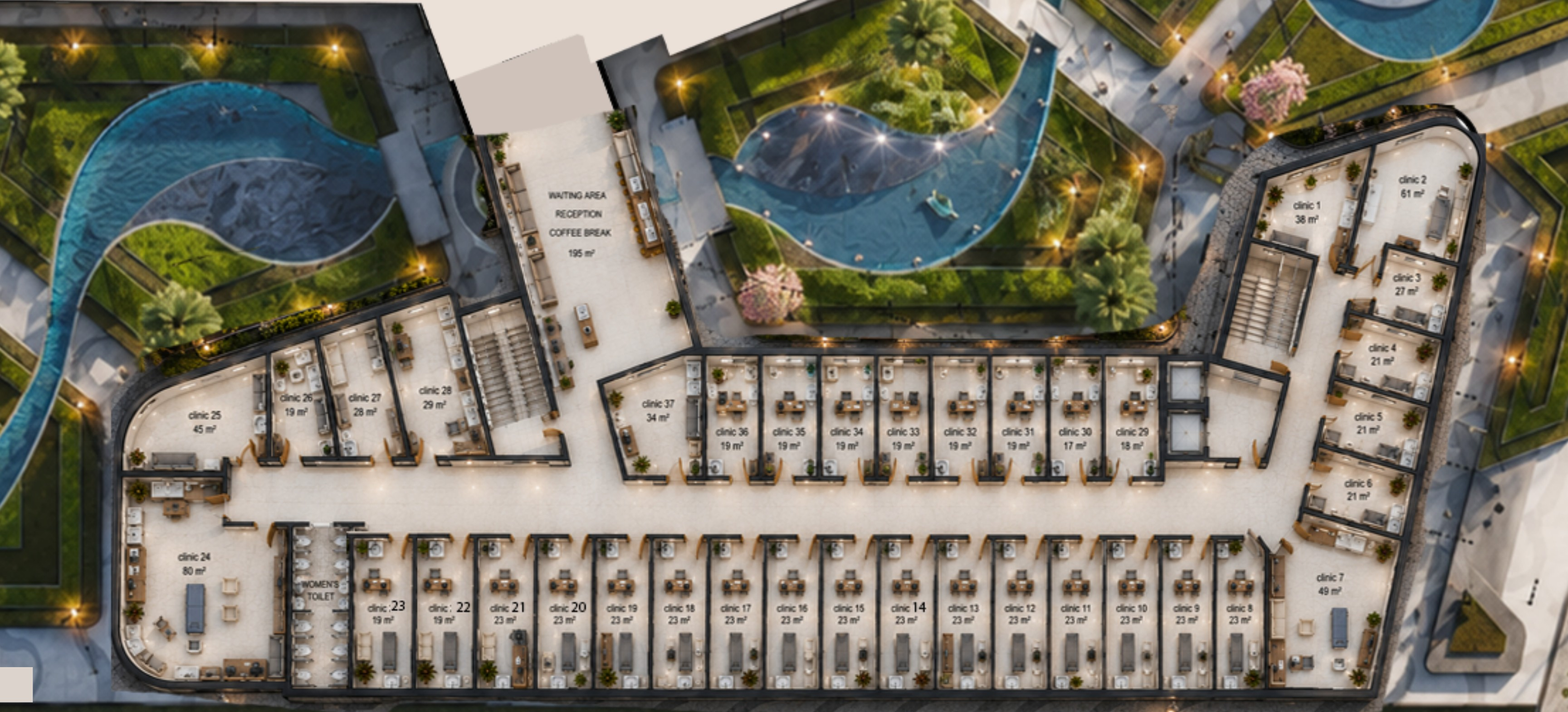
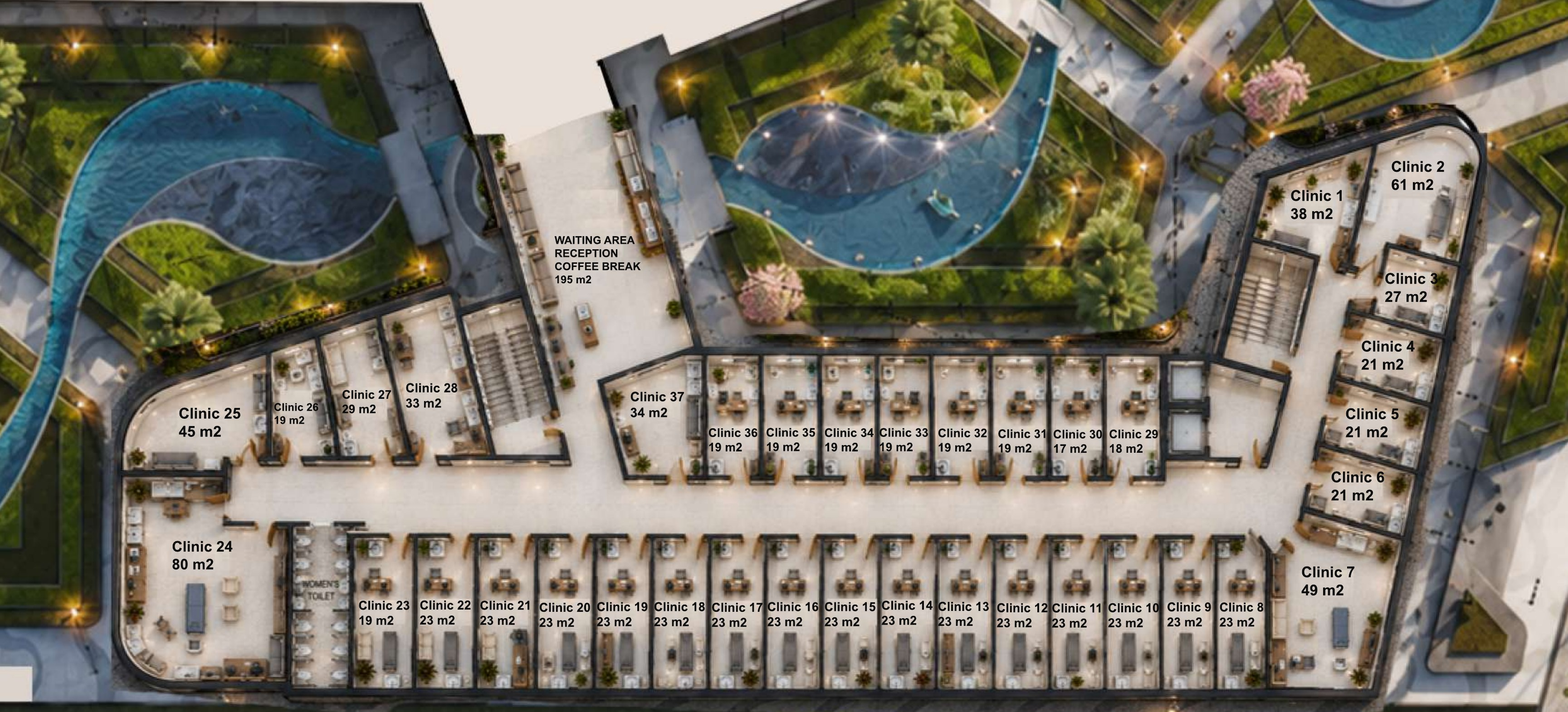
9MC: revised master plan from the client, and the corrected sheet
The client sent a revised 9MC master plan (2026-10-01). Same render as before,
shifted 2px at 300dpi, so the crop box moved and every traced outline still
fits. Three labels changed: clinic 22 19 -> 23 m2 (the known drawing error,
now fixed), 27 28 -> 29, 28 29 -> 33. Operations corrected MC927 / MC928 in
the sheet the same day, so the drawing-vs-sheet cross-check is clean.

- New app and print crops of the plan
- MC9_AREAS re-read off the new drawing; 22 leaves areaMismatches
- Offline snapshot refreshed against the live sheets
- test.js prices a fixed 80 m2 unit instead of MC924 from the snapshot,
  which crashed the suite once MC924 sold
- sw.js CACHE -> v11: artwork is cache-first, so returning phones would
  otherwise keep the old drawing

diff --git a/js/data.js b/js/data.js
@@ -1,21 +1,21 @@
 /* Offline fallback snapshots of the inventory sheets, keyed by project id.
  *
  * GENERATED — do not edit by hand. Run `node scripts/snapshot.js` to refresh.
- * Written: 2026-09-05T16:09:22.916Z
+ * Written: 2026-10-01T15:55:46.333Z
  *
  * The app uses the LIVE sheet whenever it can reach it. These are only shown
  * when the fetch fails, and the UI marks them as out of date when that happens.
  */
 const SNAPSHOTS = {
   "emc": {
-    takenAt: "2026-09-05T16:09:22.555Z",
-    rows: 14,
-    csv: "\"PROJECT\",\"Type\",\"Floor\",\"Unit Code\",\"Indoor area\",\"Indoor meter price\",\"Total unit price\",\"Status\"\n\"EMC\",\"CLINIC\",\"Third\",\"C313\",\"27\",\"125,000.00\",\"3,375,000.00\",\"Available \"\n\"EMC\",\"CLINIC\",\"Third\",\"C314\",\"26\",\"125,000.00\",\"3,250,000.00\",\"Available\"\n\"EMC\",\"CLINIC\",\"Third\",\"C315\",\"26\",\"125,000.00\",\"3,250,000.00\",\"Available\"\n\"EMC\",\"CLINIC\",\"Third\",\"C316\",\"26\",\"125,000.00\",\"3,250,000.00\",\"Available\"\n\"EMC\",\"CLINIC\",\"Third\",\"C317\",\"26\",\"125,000.00\",\"3,250,000.00\",\"Available\"\n\"EMC\",\"CLINIC\",\"Third\",\"C318\",\"38\",\"100,000.00\",\"3,800,000.00\",\"Available\"\n\"EMC\",\"CLINIC\",\"Third\",\"C319\",\"41\",\"120,000.00\",\"4,920,000.00\",\"Available\"\n\"EMC\",\"CLINIC\",\"Third\",\"C320\",\"30\",\"130,000.00\",\"3,900,000.00\",\"Available\"\n\"EMC\",\"CLINIC\",\"Third\",\"C321\",\"33\",\"130,000.00\",\"4,290,000.00\",\"Available \"\n\"EMC\",\"CLINIC\",\"Third\",\"C329\",\"18\",\"100,000.00\",\"1,800,000.00\",\"Available\"\n\"EMC\",\"CLINIC\",\"Third\",\"C330\",\"18\",\"100,000.00\",\"1,800,000.00\",\"Available\"\n\"EMC\",\"CLINIC\",\"Third\",\"C331\",\"18\",\"100,000.00\",\"1,800,000.00\",\"Available\"\n\"EMC\",\"CLINIC\",\"Third\",\"C332\",\"18\",\"110,000.00\",\"1,980,000.00\",\"Available \"\n\"EMC\",\"CLINIC\",\"Third\",\"C333\",\"17\",\"115,000.00\",\"1,955,000.00\",\"Available\"",
+    takenAt: "2026-10-01T15:55:45.914Z",
+    rows: 13,
+    csv: "\"PROJECT\",\"Type\",\"Floor\",\"Unit Code\",\"Indoor area\",\"Indoor meter price\",\"Total unit price\",\"Status\"\n\"EMC\",\"CLINIC\",\"Third\",\"C313\",\"27\",\"125,000.00\",\"3,375,000.00\",\"Available \"\n\"EMC\",\"CLINIC\",\"Third\",\"C314\",\"26\",\"125,000.00\",\"3,250,000.00\",\"Available\"\n\"EMC\",\"CLINIC\",\"Third\",\"C315\",\"26\",\"125,000.00\",\"3,250,000.00\",\"Available\"\n\"EMC\",\"CLINIC\",\"Third\",\"C316\",\"26\",\"125,000.00\",\"3,250,000.00\",\"Available\"\n\"EMC\",\"CLINIC\",\"Third\",\"C318\",\"38\",\"100,000.00\",\"3,800,000.00\",\"Available\"\n\"EMC\",\"CLINIC\",\"Third\",\"C319\",\"41\",\"120,000.00\",\"4,920,000.00\",\"Available\"\n\"EMC\",\"CLINIC\",\"Third\",\"C320\",\"30\",\"130,000.00\",\"3,900,000.00\",\"Available\"\n\"EMC\",\"CLINIC\",\"Third\",\"C321\",\"33\",\"130,000.00\",\"4,290,000.00\",\"Available \"\n\"EMC\",\"CLINIC\",\"Third\",\"C329\",\"18\",\"100,000.00\",\"1,800,000.00\",\"Available\"\n\"EMC\",\"CLINIC\",\"Third\",\"C330\",\"18\",\"100,000.00\",\"1,800,000.00\",\"Available\"\n\"EMC\",\"CLINIC\",\"Third\",\"C331\",\"18\",\"100,000.00\",\"1,800,000.00\",\"Available\"\n\"EMC\",\"CLINIC\",\"Third\",\"C332\",\"18\",\"110,000.00\",\"1,980,000.00\",\"Available \"\n\"EMC\",\"CLINIC\",\"Third\",\"C333\",\"17\",\"115,000.00\",\"1,955,000.00\",\"Available\"",
   },
   "mc9": {
-    takenAt: "2026-09-05T16:09:22.915Z",
-    rows: 18,
-    csv: "\"PROJECT\",\"Type\",\"Floor\",\"Unit Code\",\"Indoor area\",\"Indoor meter price\",\"Total unit price\",\"Status\"\n\"9MC\",\"CLINIC\",\"NINETH\",\"MC915\",\"23\",\"80,000.00\",\"1,840,000.00\",\"Available\"\n\"9MC\",\"CLINIC\",\"NINETH\",\"MC916\",\"23\",\"80,000.00\",\"1,840,000.00\",\"Available\"\n\"9MC\",\"CLINIC\",\"NINETH\",\"MC917\",\"23\",\"80,000.00\",\"1,840,000.00\",\"Available\"\n\"9MC\",\"CLINIC\",\"NINETH\",\"MC918\",\"23\",\"80,000.00\",\"1,840,000.00\",\"Available\"\n\"9MC\",\"CLINIC\",\"NINETH\",\"MC919\",\"23\",\"80,000.00\",\"1,840,000.00\",\"Available\"\n\"9MC\",\"CLINIC\",\"NINETH\",\"MC921\",\"23\",\"80,000.00\",\"1,840,000.00\",\"Available\"\n\"9MC\",\"CLINIC\",\"NINETH\",\"MC923\",\"19\",\"80,000.00\",\"1,520,000.00\",\"Available\"\n\"9MC\",\"CLINIC\",\"NINETH\",\"MC924\",\"80\",\"80,000.00\",\"6,400,000.00\",\"Available\"\n\"9MC\",\"CLINIC\",\"NINETH\",\"MC925\",\"45\",\"80,000.00\",\"3,600,000.00\",\"Available\"\n\"9MC\",\"CLINIC\",\"NINETH\",\"MC927\",\"28\",\"82,000.00\",\"2,296,000.00\",\"Available\"\n\"9MC\",\"CLINIC\",\"NINETH\",\"MC928\",\"29\",\"82,000.00\",\"2,378,000.00\",\"Available\"\n\"9MC\",\"CLINIC\",\"NINETH\",\"MC931\",\"19\",\"85,000.00\",\"1,615,000.00\",\"Available\"\n\"9MC\",\"CLINIC\",\"NINETH\",\"MC932\",\"19\",\"85,000.00\",\"1,615,000.00\",\"Available\"\n\"9MC\",\"CLINIC\",\"NINETH\",\"MC933\",\"19\",\"85,000.00\",\"1,615,000.00\",\"Available\"\n\"9MC\",\"CLINIC\",\"NINETH\",\"MC934\",\"19\",\"85,000.00\",\"1,615,000.00\",\"Available\"\n\"9MC\",\"CLINIC\",\"NINETH\",\"MC935\",\"19\",\"85,000.00\",\"1,615,000.00\",\"Available\"\n\"9MC\",\"CLINIC\",\"NINETH\",\"MC936\",\"19\",\"85,000.00\",\"1,615,000.00\",\"Available\"\n\"9MC\",\"CLINIC\",\"NINETH\",\"MC937\",\"34\",\"85,000.00\",\"2,890,000.00\",\"Available\"",
+    takenAt: "2026-10-01T15:55:46.331Z",
+    rows: 16,
+    csv: "\"PROJECT\",\"Type\",\"Floor\",\"Unit Code\",\"Indoor area\",\"Indoor meter price\",\"Total unit price\",\"Status\"\n\"9MC\",\"CLINIC\",\"NINETH\",\"MC901\",\"38\",\"85,000.00\",\"3,230,000.00\",\"Available\"\n\"9MC\",\"CLINIC\",\"NINETH\",\"MC902\",\"61\",\"85,000.00\",\"5,185,000.00\",\"Available\"\n\"9MC\",\"CLINIC\",\"NINETH\",\"MC904\",\"21\",\"85,000.00\",\"1,785,000.00\",\"Available\"\n\"9MC\",\"CLINIC\",\"NINETH\",\"MC905\",\"21\",\"85,000.00\",\"1,785,000.00\",\"Available\"\n\"9MC\",\"CLINIC\",\"NINETH\",\"MC908\",\"23\",\"82,000.00\",\"1,886,000.00\",\"Available\"\n\"9MC\",\"CLINIC\",\"NINETH\",\"MC909\",\"23\",\"82,000.00\",\"1,886,000.00\",\"Available\"\n\"9MC\",\"CLINIC\",\"NINETH\",\"MC910\",\"23\",\"82,000.00\",\"1,886,000.00\",\"Available\"\n\"9MC\",\"CLINIC\",\"NINETH\",\"MC911\",\"23\",\"82,000.00\",\"1,886,000.00\",\"Available\"\n\"9MC\",\"CLINIC\",\"NINETH\",\"MC916\",\"23\",\"80,000.00\",\"1,840,000.00\",\"Available\"\n\"9MC\",\"CLINIC\",\"NINETH\",\"MC917\",\"23\",\"80,000.00\",\"1,840,000.00\",\"Available\"\n\"9MC\",\"CLINIC\",\"NINETH\",\"MC918\",\"23\",\"80,000.00\",\"1,840,000.00\",\"Available\"\n\"9MC\",\"CLINIC\",\"NINETH\",\"MC919\",\"23\",\"80,000.00\",\"1,840,000.00\",\"Available\"\n\"9MC\",\"CLINIC\",\"NINETH\",\"MC927\",\"29\",\"82,000.00\",\"2,378,000.00\",\"Available\"\n\"9MC\",\"CLINIC\",\"NINETH\",\"MC928\",\"33\",\"82,000.00\",\"2,706,000.00\",\"Available\"\n\"9MC\",\"CLINIC\",\"NINETH\",\"MC932\",\"19\",\"85,000.00\",\"1,615,000.00\",\"Available\"\n\"9MC\",\"CLINIC\",\"NINETH\",\"MC933\",\"19\",\"85,000.00\",\"1,615,000.00\",\"Available\"",
   },
 };
 

diff --git a/js/plan.js b/js/plan.js
@@ -159,12 +159,19 @@ const MC9_PINS_RAW = {
   37: [508, 320],
 };
 
-/** m² printed on the 9MC drawing — cross-checked against the sheet at load. */
+/** m² printed on the 9MC drawing — cross-checked against the sheet at load.
+ *
+ * Re-read off the revised master plan the client sent 2026-10-01
+ * (raw/9mc-masterplan-2026-10-01.pdf, page 2). Same building, same position on
+ * the page (shifted 2px at 300dpi, corrected in the crop), so the traced
+ * outlines below still fit. Three labels changed: 22 is 19 → 23, 27 is 28 → 29,
+ * 28 is 29 → 33. The sheet still says 28 and 29 for MC927 / MC928, so the app
+ * flags both until one of the two sources is corrected. */
 const MC9_AREAS = {
   1: 38, 2: 61, 3: 27, 4: 21, 5: 21, 6: 21, 7: 49,
   8: 23, 9: 23, 10: 23, 11: 23, 12: 23, 13: 23, 14: 23, 15: 23, 16: 23, 17: 23,
-  18: 23, 19: 23, 20: 23, 21: 23, 22: 19, 23: 19,
-  24: 80, 25: 45, 26: 19, 27: 28, 28: 29,
+  18: 23, 19: 23, 20: 23, 21: 23, 22: 23, 23: 19,
+  24: 80, 25: 45, 26: 19, 27: 29, 28: 33,
   29: 18, 30: 17, 31: 19, 32: 19, 33: 19, 34: 19, 35: 19, 36: 19, 37: 34,
 };
 
@@ -174,12 +181,12 @@ const MC9_AREAS = {
  * Validated as a set: every outline contains the pin that was placed
  * independently off the drawing, and no two overlap.
  *
- * Clinics 22 and 23 trace about a third larger than the 19 m² printed on the
- * drawing, landing near 25 m². That is not a tracing error — operations have
- * separately said those rooms are 23 m² and that the drawing is wrong (see the
- * README). The traced geometry is now a third, independent piece of evidence
- * that the DRAWING is the thing needing correction. MC9_AREAS still records
- * what the drawing prints, so the sheet cross-check keeps flagging it. */
+ * Clinics 22 and 23 trace near 25 m². Both used to print 19 m²; operations said
+ * 23 m² and that the drawing was wrong, and the outlines agreed. The 2026-10-01
+ * revision corrected 22 to 23 m² but still prints 19 m² for 23, so 23 remains a
+ * known mismatch. Clinic 28 traces near 34.5 m², which backs the revision's
+ * 33 m² over the sheet's 29. MC9_AREAS records what the drawing prints, so the
+ * sheet cross-check keeps flagging any disagreement. */
 const MC9_POLYGONS = {
   // Right-hand column, top to bottom
   1: [[978, 138], [1055, 113], [1038, 201], [967, 183]],
@@ -287,11 +294,11 @@ const PLANS = {
 
     /* Rooms whose traced outline disagrees with the m² printed inside it by
      * more than a quarter. Listed so the test suite guards against a NEW
-     * mismatch appearing without failing on the five already understood.
+     * mismatch appearing without failing on the four already understood.
      *
-     *  22, 23 — trace to about 25 m² against a printed 19 m². Operations have
-     *     already said these rooms are 23 m² and the drawing is wrong, so the
-     *     geometry is a third, independent witness for that.
+     *  23 — traces to about 25 m² against a printed 19 m². Operations have
+     *     already said this room is 23 m² and the drawing is wrong. (22 had the
+     *     same fault; the 2026-10-01 drawing fixed it, so it left this list.)
      *  1, 2, 3 — trace 29-44% SMALLER than their printed 38 / 61 / 27 m². The
      *     outlines follow the drawn walls, so either those three labels are
      *     wrong in the same way, or the rooms extend past what is drawn.
@@ -300,7 +307,7 @@ const PLANS = {
      *     numbers are only ever cross-checked against it.
      *
      * Delete an entry once the drawing is corrected. */
-    areaMismatches: [1, 2, 3, 22, 23],
+    areaMismatches: [1, 2, 3, 23],
     // The 9MC drawing prints no floor name, so floors three to nine share it
     // as-is with nothing to correct.
     floorLabel: null,

diff --git a/sw.js b/sw.js
@@ -11,7 +11,9 @@
  *
  * Bump CACHE when the app shell changes, or returning phones keep the old one.
  */
-/* v10 — search by budget: js/afford.js joins the shell (2026-09-05).
+/* v11 — revised 9MC master plan (2026-10-01). Artwork is cache-first, so
+ *       without this bump returning phones would keep the old drawing.
+ * v10 — search by budget: js/afford.js joins the shell (2026-09-05).
  * v5 — the shell is no longer downloaded twice on a first visit, and app code
  *      is revalidated instead of frozen. Both found on Qomor (2026-08-14),
  *      which was built from this app and inherited them.
@@ -19,7 +21,7 @@
  * v6 — offer analytics: each issued offer is recorded (2026-08-19).
  * v3 — inventory prefetched at boot, and a timeout on the sheet fetch.
  * v2 — combined offers, traced room outlines, no phone on the offer (2026-08-13). */
-const CACHE = 'eliwah-offers-v10';
+const CACHE = 'eliwah-offers-v11';
 
 /* Code is revalidated; artwork is not.
  *

diff --git a/scripts/test.js b/scripts/test.js
@@ -385,7 +385,10 @@ console.log('\n9MC payment plans');
 G.setProject('mc9');
 const C9 = G.cfg();
 const r9b = G.normalizeRows(G.parseCSV(G.SNAPSHOTS.mc9.csv), G.PLANS.mc9.areas);
-const u9 = r9b.units.find((u) => u.code === 'MC924');   // 80 m², 6,400,000
+/* A fixed unit, not one picked out of the snapshot: MC924 used to be read from
+ * there, and the suite crashed the day it sold and left the sheet (2026-10-01). */
+const u9 = G.normalizeRows(G.parseCSV('PROJECT,Type,Floor,Unit Code,Indoor area,Indoor meter price,Total unit price,Status\n'
+  + '9MC,CLINIC,Nineth,MC924,80,"80,000.00","6,400,000.00",Available'), G.PLANS.mc9.areas).units[0];   // 80 m², 6,400,000
 const CONTRACT = new Date(2026, 7, 11);                 // 11 Aug 2026
 
 check('no 9MC unit is on hold', r9b.units.filter((u) => u.state === 'held').length === 0);

diff --git a/js/config.js b/js/config.js
@@ -348,8 +348,8 @@ VOOM
      * Empty on purpose. MC922 used to be here, forcing the drawing's 19 m² over
      * the sheet's 23 m². Operations have since confirmed 23 m² is correct and
      * withdrawn the unit, so the override was wrong and has been removed — the
-     * app follows the sheet. Note the drawing still prints 19 m² for clinic 22,
-     * so if that unit ever returns the app will flag the mismatch again. */
+     * app follows the sheet. The 2026-10-01 drawing now prints 23 m² for clinic
+     * 22 too, so the two sources agree if the unit returns. */
     unitOverrides: {},
   },
 ];

diff --git a/README.md b/README.md
@@ -103,9 +103,23 @@ Delete the entry once ops fix the sheet; the app then just uses the sheet.
 **Currently empty, on purpose.** MC922 was overridden here to force the
 drawing's 19 m² over the sheet's 23 m². Operations later confirmed **23 m² is
 correct** and withdrew the unit, so the override was wrong and has been removed.
-Note the drawing still prints 19 m² for clinic 22 — if that unit ever returns to
-the sheet at 23 m², the app will flag the mismatch again, which is the right
-behaviour: one of the two sources needs correcting.
+The revised 9MC master plan (2026-10-01, `raw/9mc-masterplan-2026-10-01.pdf`)
+now prints 23 m² for clinic 22, so the drawing and operations agree on it.
+
+That revision also changed clinic 27 from 28 to **29 m²** and clinic 28 from 29
+to **33 m²**, while the sheet still says 28 and 29 for MC927 / MC928. The app
+flags both on load, which is the right behaviour: one of the two sources needs
+correcting. Clinic 28's traced outline (about 34.5 m²) supports the drawing.
+Prices still come from the sheet.
+
+To replace the 9MC drawing again: render page 2 of the new PDF with `pdftoppm`
+and crop to the box the outlines were traced against — at 150 dpi
+`-x 915 -y 644 -W 1729 -H 786` for `assets/plan-9mc.jpg` and `raw/map9.png`, at
+300 dpi `-x 1830 -y 1288 -W 3457 -H 1571` for `assets/pdf/plan-9mc.jpg`. Check
+the new page still lines up with the old one first (the 2026-10-01 page sat 2px
+lower-right at 300 dpi than the original), then run
+`node scripts/verify-plan.js mc9` and bump `CACHE` in `sw.js` — artwork is
+cached on phones until it changes.
 
 ## Adding a project
 
